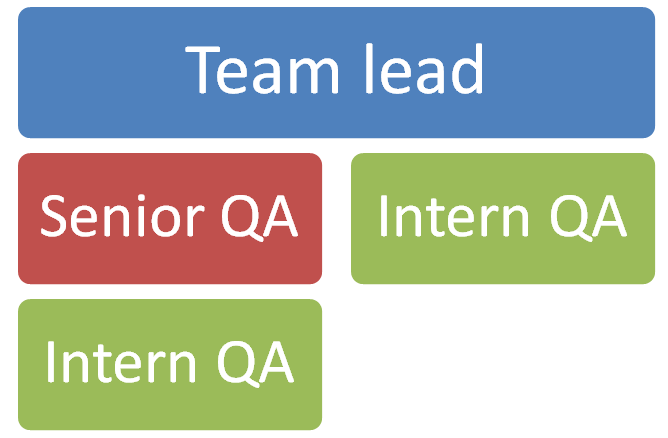
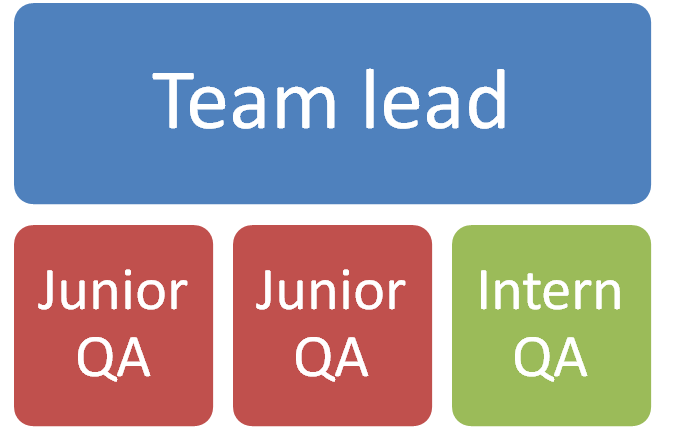
change picture

diff --git a/Danmark20151006/QA/index.html b/Danmark20151006/QA/index.html
@@ -63,6 +63,7 @@
 					<li>Requirements for a solid test plan</li>
 					<li>Automated testing using Slenium</li>
 					<li>Test management with TestLink</li>
+					<li>Test management with Tarantula</li>
 					<li>Regresion testing</li>
 					<li>QA strategy</li>
 					<li>Plan QA</li>
@@ -75,14 +76,11 @@
 					<ul>
 						<li>QA team </li>
 						<ul><li>Team lead</li></ul>
-						<ul><li>Senior QA</li></ul>
-						<ul><li>Two Interns</li></ul>
+						<ul><li>Two Junior QA</li></ul>
+						<ul><li>One Intern</li></ul>
 						<div><img src="images/CurrentQA.png" width="300" height="150"/></div>
-						<ul><li>Open positions:</li></ul>
-						<ul><ul><li>Medium QA</li></ul></ul>
-						<ul><ul><li>Junior QA</li></ul></ul>
-						<ul><ul><li>2 Intern QA</li></ul></ul>
-						<img src="images/FutureQA.png" width="300" height="150" />
+						<li>Open positions:</li>
+						<ul><li>Medium QA</li></ul>
 				</section>				
 				<section>
 					<h3>Organization</h2>
